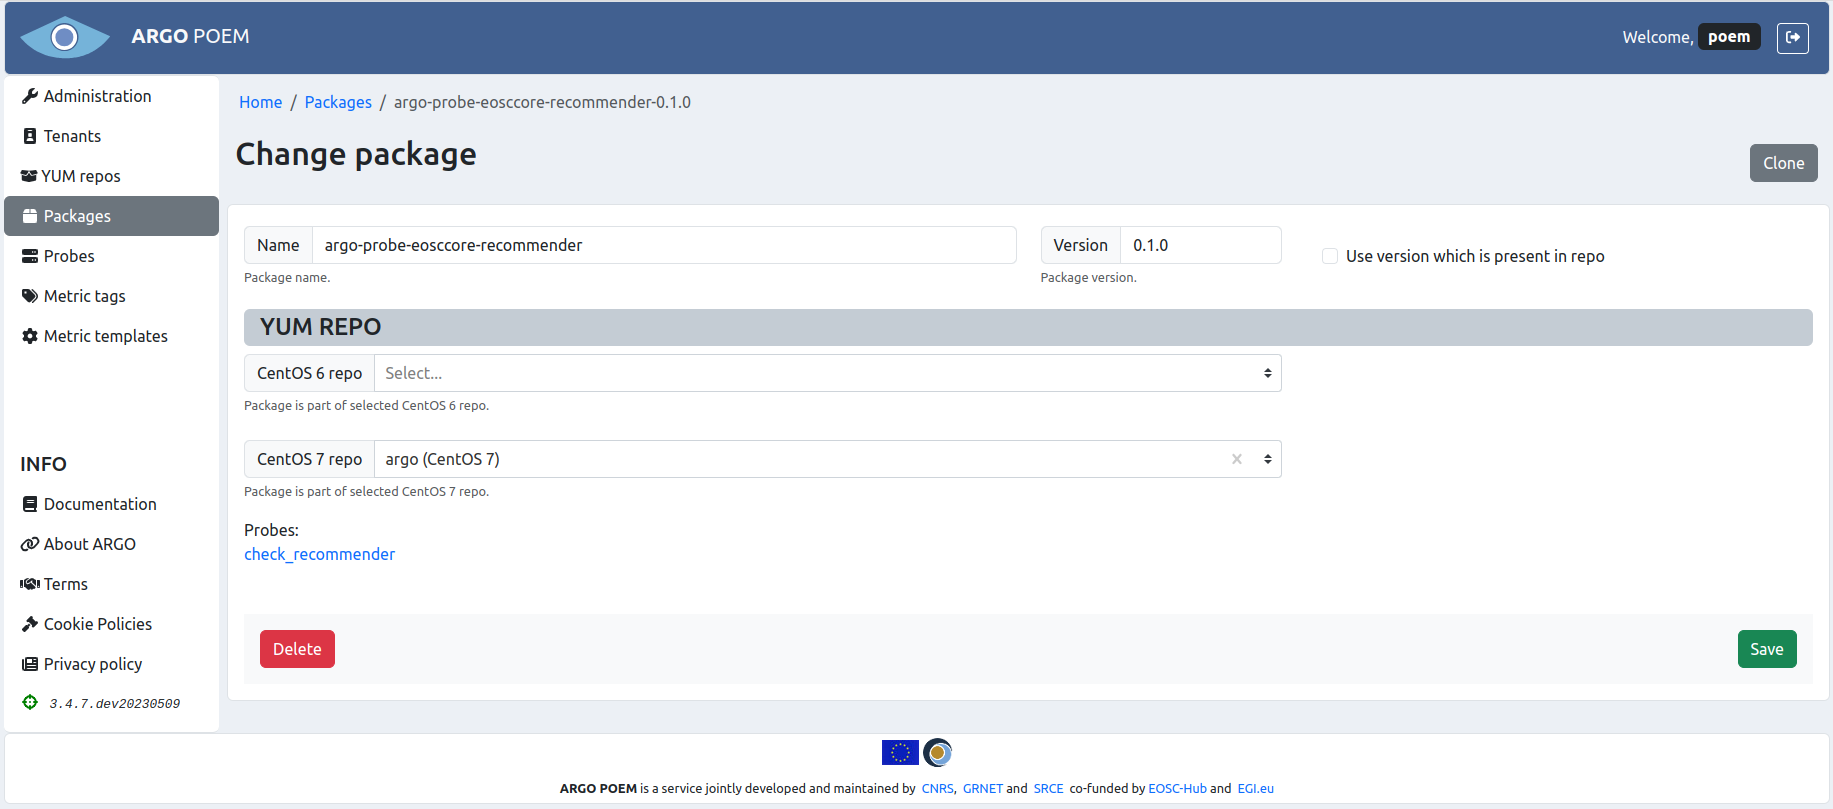
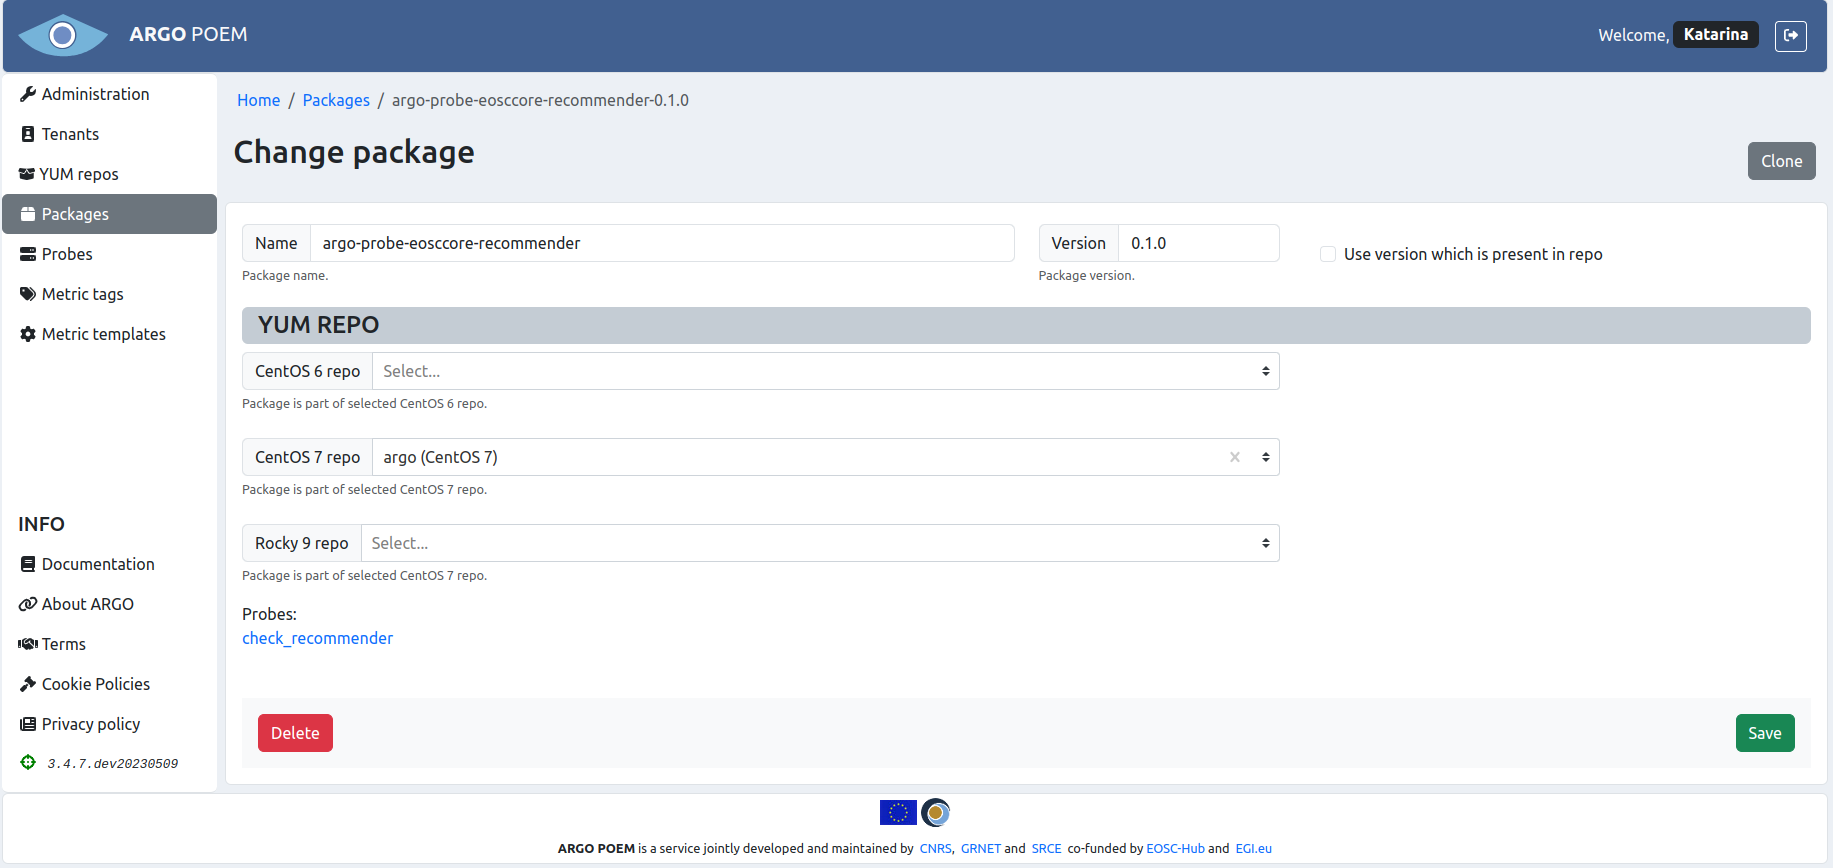
Update documentation regarding the new OS tag

diff --git a/doc/v1/docs/superadmin_packages.md b/doc/v1/docs/superadmin_packages.md
@@ -23,8 +23,9 @@ Mandatory fields:
 * **YUM repo** - **at least one** YUM repo must be defined; YUM repo which provides the given package:
     * **CentOS 6 repo** - repo tagged with CentOS 6 tag,
     * **CentOS 7 repo** - repo tagged with CentOS 7 tag.
+    * **Rocky 9 repo** - repo tagged with Rocky 9 tag.
     
-If **Use version which is present in repo** is checked, package version is going to be tagged as present, and the version which exists in the repo is going to be installed on the monitoring box.
+If the **Use version which is present in repo** is checked, package version is going to be tagged as present, and the version which exists in the repo is going to be installed on the monitoring box.
 
 
 ### List of probes provided by the package

diff --git a/doc/v1/docs/superadmin_repos.md b/doc/v1/docs/superadmin_repos.md
@@ -19,6 +19,7 @@ All the fields are mandatory:
 * **Name** - name of YUM repo (**without** `.repo` file extension);
 * **Tag** - tag which marks for which OS the repo is defined:
     * CentOS 6,
-    * CentOS 7;
+    * CentOS 7,
+    * Rocky 9;
 * **File content** - content of the YUM repo file;
 * **Description** - short free text description, shown in the YUM repo list.
